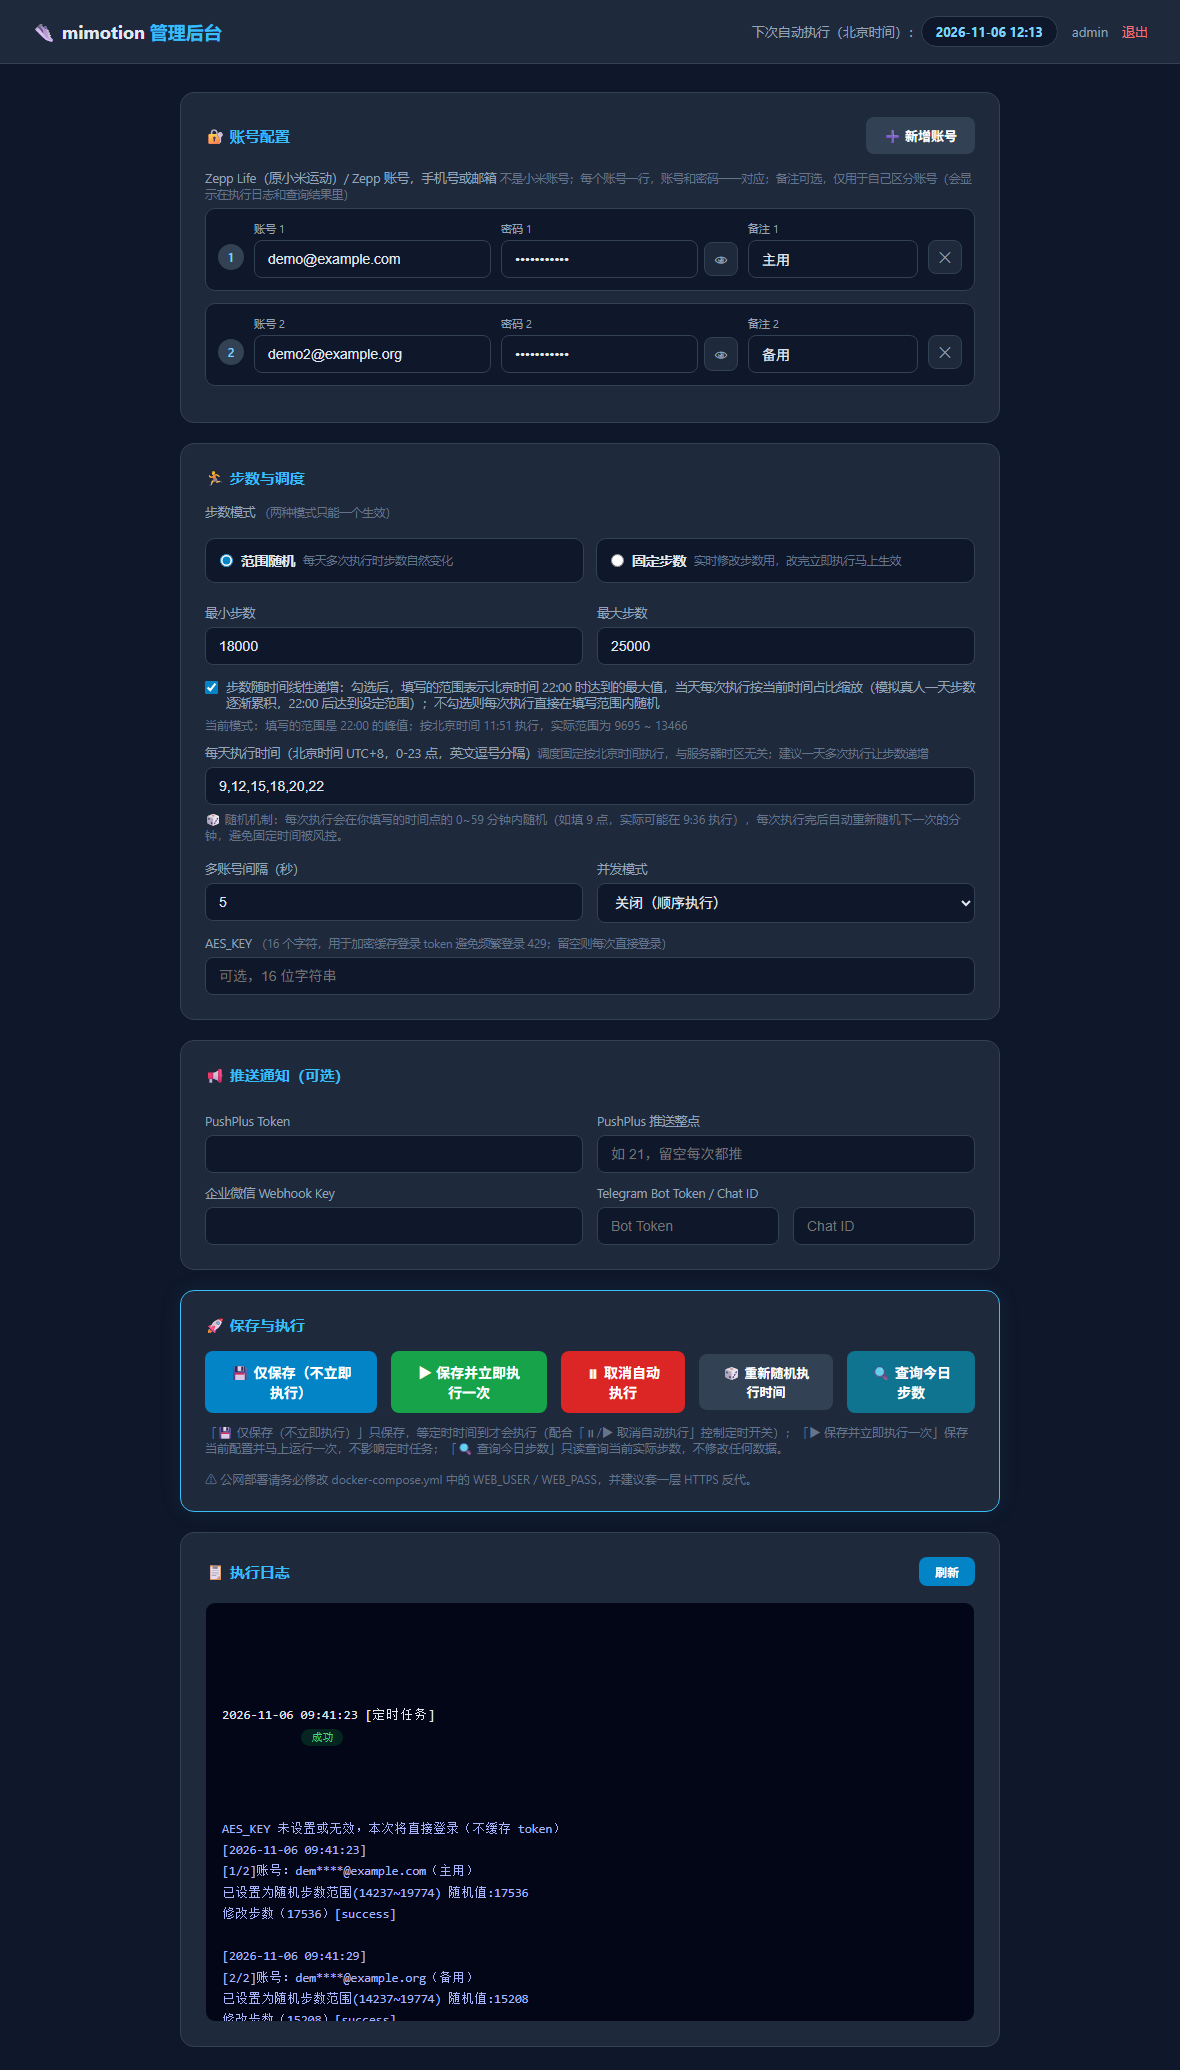
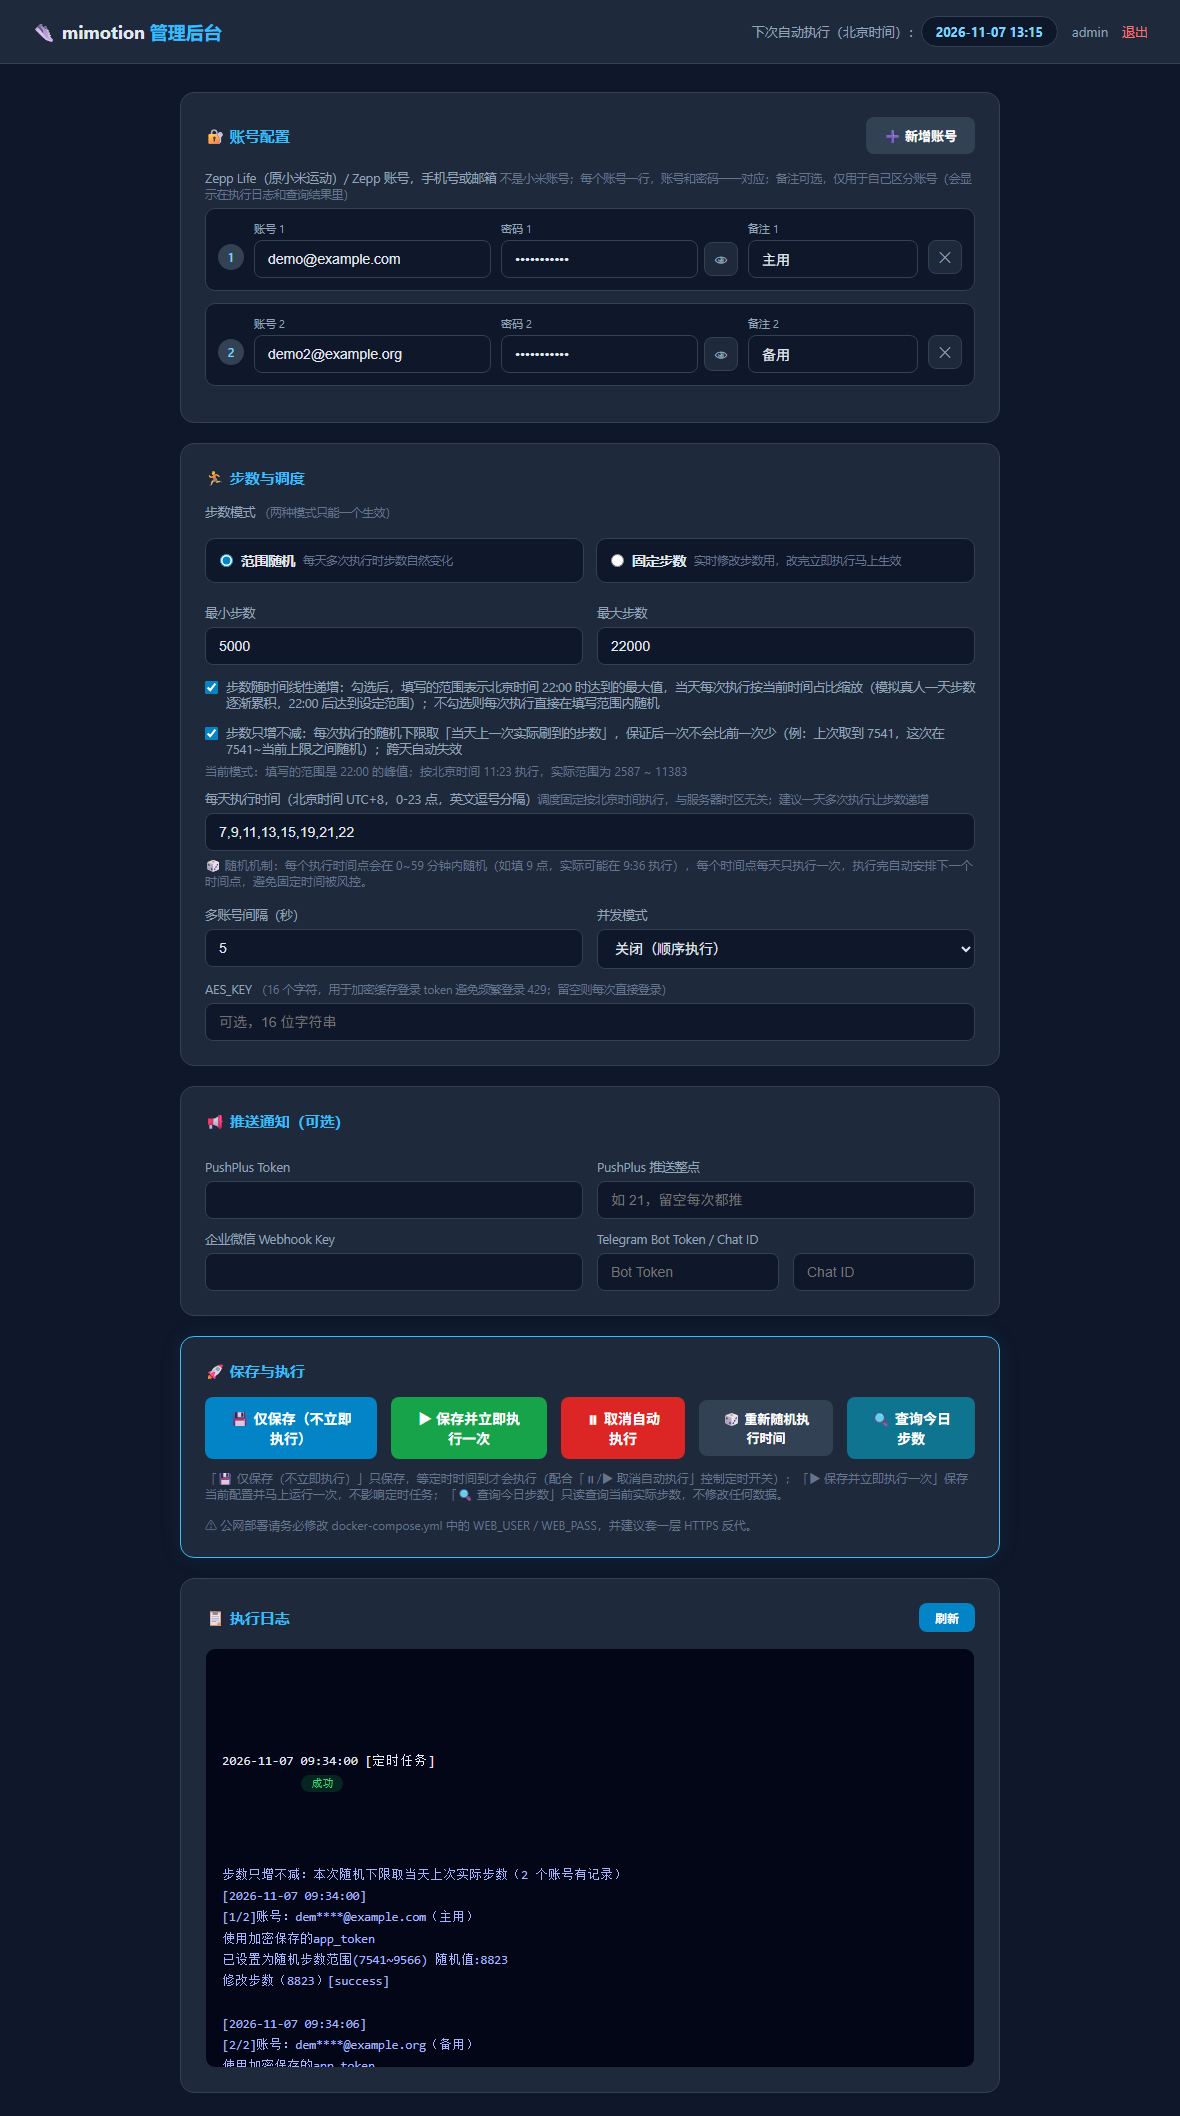
新增步数只增不减、修复同一小时重复执行

diff --git a/templates/dashboard.html b/templates/dashboard.html
@@ -174,6 +174,11 @@
                  {% if cfg.SCALE_BY_TIME != 'False' %}checked{% endif %} onchange="scaleTip()">
           步数随时间线性递增：勾选后，填写的范围表示北京时间 22:00 时达到的最大值，当天每次执行按当前时间占比缩放（模拟真人一天步数逐渐累积，22:00 后达到设定范围）；不勾选则每次执行直接在填写范围内随机
         </label>
+        <label class="check-line">
+          <input type="checkbox" name="MONOTONIC_STEPS" value="True" class="chk"
+                 {% if cfg.MONOTONIC_STEPS != 'False' %}checked{% endif %}>
+          步数只增不减：每次执行的随机下限取「当天上一次实际刷到的步数」，保证后一次不会比前一次少（例：上次取到 7541，这次在 7541~当前上限之间随机）；跨天自动失效
+        </label>
         <div class="muted" id="scale-tip" style="margin:6px 0 0;"></div>
       </div>
 
@@ -184,7 +189,7 @@
       </div>
       <label>每天执行时间（北京时间 UTC+8，0-23 点，英文逗号分隔）<span class="tip" id="hours-tip">调度固定按北京时间执行，与服务器时区无关；建议一天多次执行让步数递增</span></label>
       <input name="HOURS" value="{{ cfg.HOURS }}">
-      <div class="muted" id="random-tip" style="margin:6px 0 0;">🎲 随机机制：每次执行会在你填写的时间点的 0~59 分钟内随机（如填 9 点，实际可能在 9:36 执行），每次执行完后自动重新随机下一次的分钟，避免固定时间被风控。</div>
+      <div class="muted" id="random-tip" style="margin:6px 0 0;">🎲 随机机制：每个执行时间点会在 0~59 分钟内随机（如填 9 点，实际可能在 9:36 执行），每个时间点每天只执行一次，执行完自动安排下一个时间点，避免固定时间被风控。</div>
       <div class="row" style="margin-top:6px;">
         <div>
           <label>多账号间隔（秒）</label>

diff --git a/runner.py b/runner.py
@@ -7,11 +7,12 @@
 import os
 import sys
 import io
+import re
 import json
 import threading
 import contextlib
 import traceback
-from datetime import datetime
+from datetime import datetime, timedelta
 
 BASE_DIR = os.path.dirname(os.path.abspath(__file__))
 CORE_DIR = os.path.join(BASE_DIR, "core")
@@ -21,7 +22,42 @@ if CORE_DIR not in sys.path:
 _run_lock = threading.Lock()
 
 # 把 token 缓存文件固定到 data 目录（main.py 里用的是相对路径）
-os.chdir(os.environ.get("DATA_DIR", os.path.join(BASE_DIR, "data")))
+DATA_DIR = os.environ.get("DATA_DIR", os.path.join(BASE_DIR, "data"))
+os.chdir(DATA_DIR)
+
+# 当天各账号上次实际刷到的步数（跨天自动失效）
+LAST_STEPS_PATH = os.path.join(DATA_DIR, "last_steps.json")
+
+
+def _bj_today() -> str:
+    return (datetime.utcnow() + timedelta(hours=8)).strftime("%Y-%m-%d")
+
+
+def _load_last_steps() -> dict:
+    """返回当天已执行过的 {账号: 步数}；文件不是今天的则视为空。"""
+    try:
+        with open(LAST_STEPS_PATH, encoding="utf-8") as f:
+            data = json.load(f)
+        if data.get("date") == _bj_today():
+            return {k: int(v) for k, v in (data.get("steps") or {}).items()}
+    except Exception:
+        pass
+    return {}
+
+
+def _save_last_steps(steps: dict):
+    try:
+        with open(LAST_STEPS_PATH, "w", encoding="utf-8") as f:
+            json.dump({"date": _bj_today(), "steps": steps},
+                      f, ensure_ascii=False, indent=2)
+    except Exception:
+        print("保存当天步数记录失败：", traceback.format_exc())
+
+
+def _parse_step(msg: str):
+    """从执行结果 '修改步数（12345）[success]' 中解析步数"""
+    m = re.search(r"修改步数（(\d+)）", msg or "")
+    return int(m.group(1)) if m else None
 
 
 def _int(v, default):
@@ -120,6 +156,16 @@ def run_once(cfg: dict, trigger: str = "manual") -> dict:
                     m.max_step = _int(cfg.get("MAX_STEP"), 25000)
                 m.use_concurrent = config.get("USE_CONCURRENT") == "True"
 
+                # 步数只增不减：把当天各账号上次实际刷到的步数作为本次随机下限
+                monotonic = cfg.get("MONOTONIC_STEPS", "True") == "True"
+                last_steps = _load_last_steps() if monotonic else {}
+                if monotonic and cfg.get("STEP_MODE") != "fixed" and last_steps:
+                    m.step_floor = last_steps
+                    print(f"步数只增不减：本次随机下限取当天上次实际步数"
+                          f"（{len(last_steps)} 个账号有记录）")
+                else:
+                    m.step_floor = {}
+
                 if not m.users.strip() or not m.passwords.strip():
                     summary = "账号或密码未填写，跳过执行"
                 else:
@@ -145,6 +191,14 @@ def run_once(cfg: dict, trigger: str = "manual") -> dict:
                                     _t.sleep(m.sleep_seconds)
                         if m.encrypt_support:
                             m.persist_user_tokens()
+                        # 记录本次实际步数，作为当天后续执行的下限
+                        if monotonic and cfg.get("STEP_MODE") != "fixed":
+                            for r in results:
+                                n = _parse_step(r.get("msg")) if r.get("success") else None
+                                if n:
+                                    last_steps[r["user"]] = n
+                            if last_steps:
+                                _save_last_steps(last_steps)
                         ok_count = sum(1 for r in results if r["success"])
                         summary = f"执行账号总数{total}，成功：{ok_count}，失败：{total - ok_count}"
                         success = ok_count == total and total > 0

diff --git a/app.py b/app.py
@@ -6,8 +6,11 @@ import time
 import random
 import secrets
 import threading
+from datetime import timedelta
 from functools import wraps
 from datetime import datetime
+
+import pytz
 
 from flask import (Flask, session, redirect, url_for, request,
                    render_template, flash, jsonify)
@@ -32,6 +35,7 @@ DEFAULT_CONFIG = {
     "MIN_STEP": "18000",
     "MAX_STEP": "25000",
     "SCALE_BY_TIME": "True",
+    "MONOTONIC_STEPS": "True",
     "STEP_MODE": "range",
     "FIXED_STEP": "",
     "SCHEDULE_ENABLED": "True",
@@ -208,6 +212,7 @@ def save():
         cfg[k] = request.form.get(k, DEFAULT_CONFIG[k]).strip()
     # 复选框：未勾选时表单不会提交该字段
     cfg["SCALE_BY_TIME"] = "True" if request.form.get("SCALE_BY_TIME") == "True" else "False"
+    cfg["MONOTONIC_STEPS"] = "True" if request.form.get("MONOTONIC_STEPS") == "True" else "False"
     # 步数模式：range=范围随机 / fixed=固定步数（互斥）
     cfg["STEP_MODE"] = "fixed" if request.form.get("STEP_MODE") == "fixed" else "range"
     cfg["FIXED_STEP"] = request.form.get("FIXED_STEP", "").strip()
@@ -260,6 +265,10 @@ def _next_run_ts():
     if job and job.next_run_time:
         return job.next_run_time.timestamp()
     return None
+
+
+def _now_bj():
+    return datetime.now(pytz.timezone("Asia/Shanghai"))
 
 
 @app.route("/run", methods=["POST"])
@@ -364,11 +373,15 @@ def scheduled_run():
                        "summary": result.get("summary", ""),
                        "trigger": "定时任务",
                        "finished_ts": time.time()})
-    # 执行完后重新随机分钟，避免固定时间被平台风控
-    reschedule()
+    # 执行完后安排下一个时间点（跳过刚执行的小时，避免同小时重复执行）
+    reschedule(skip_hour=_now_bj().hour)
 
 
-def reschedule():
+def reschedule(skip_hour=None):
+    """排下一次定时执行。
+    skip_hour：定时任务执行完后调用时传入刚执行的小时（北京时间），
+    确保该小时不会因随机分钟落在其后而被再次排程（每个时间点每天只执行一次）。
+    """
     cfg = load_config()
     # 定时被取消时不排程
     if cfg.get("SCHEDULE_ENABLED", "True") != "True":
@@ -379,12 +392,25 @@ def reschedule():
     for h in cfg.get("HOURS", "").split(","):
         h = h.strip()
         if h and h.isdigit() and 0 <= int(h) <= 23:
-            hours.append(h)
+            hours.append(int(h))
     if not hours:
         return
-    minute = random.randint(0, 59)
-    scheduler.add_job(scheduled_run, "cron",
-                      hour=",".join(hours), minute=str(minute),
+    now = _now_bj()
+    run_at = None
+    for h in sorted(set(hours)):
+        if skip_hour is not None and h == skip_hour:
+            continue  # 该时间点刚执行过，不再重复
+        cand = now.replace(hour=h, minute=random.randint(0, 59),
+                           second=0, microsecond=0)
+        if cand > now:
+            run_at = cand
+            break
+    if run_at is None:
+        # 今天的时间点都已过（或刚执行完最后一个）：安排到明天最早的时间点
+        first = min(h for h in hours if h != skip_hour) if len(set(hours)) > 1 else min(hours)
+        run_at = (now + timedelta(days=1)).replace(
+            hour=first, minute=random.randint(0, 59), second=0, microsecond=0)
+    scheduler.add_job(scheduled_run, "date", run_date=run_at,
                       id="mimotion", replace_existing=True)
 
 

diff --git a/core/main.py b/core/main.py
@@ -87,6 +87,10 @@ def get_error_code(location):
     return result[0]
 
 
+# 当日步数下限（由 Web 端注入 {账号: 当天上次实际步数}），用于「步数只增不减」
+step_floor = {}
+
+
 class MiMotionRunner:
     def __init__(self, _user, _passwd):
         self.user_id = None
@@ -199,6 +203,16 @@ class MiMotionRunner:
         app_token = self.login()
         if app_token is None:
             return "登陆失败！", False
+
+        # 步数只增不减：下限取当天上次实际刷到的步数（Web 端注入 step_floor）
+        floor = (step_floor or {}).get(self.user)
+        if floor:
+            try:
+                floor = int(floor)
+                min_step = max(min_step, floor)
+                max_step = max(max_step, floor)
+            except (TypeError, ValueError):
+                pass
 
         step = str(random.randint(min_step, max_step))
         self.log_str += f"已设置为随机步数范围({min_step}~{max_step}) 随机值:{step}\n"

diff --git a/README.md b/README.md
@@ -13,9 +13,9 @@
 - **Web 管理界面**：账号密码登录（带 CSRF 防护 + 登录失败锁定），适合公网部署
 - **账号动态管理**：「新增账号」逐行添加账号 / 备注 / 密码（密码支持明文切换查看、单行删除），多账号自动用 `#` 分隔传给核心逻辑，无需手动拼接；备注可选，会显示在执行日志和查询结果里（如 `demo****@example.com（主用）`），方便区分多个账号
 - **步数模式（二选一）**：
-  - 🏃 **范围随机**：在最小/最大步数间随机；可选「随时间线性递增」——填写的范围为北京时间 22:00 达到的峰值，更早执行按当前时间占比缩放（模拟真人一天步数逐渐累积）
+  - 🏃 **范围随机**：在最小/最大步数间随机；可选「随时间线性递增」——填写的范围为北京时间 22:00 达到的峰值，更早执行按当前时间占比缩放（模拟真人一天步数逐渐累积）；可选「步数只增不减」——每次执行的随机下限取当天上一次实际刷到的步数，保证后一次不会比前一次少（跨天自动失效）
   - 🎯 **固定步数**：每次执行都设为确切值，适合实时把步数改成某个目标值（此模式下每天执行时间只能填一个时间点）
-- **定时调度**：按北京时间执行，与服务器时区无关；每个时间点在 0~59 分钟内随机执行，执行完自动重新随机，避免固定时间被风控
+- **定时调度**：按北京时间执行，与服务器时区无关；每个时间点在 0~59 分钟内随机执行，每个时间点每天只执行一次，执行完自动安排下一个时间点，避免固定时间被风控
 - **执行控制**：仅保存（等定时执行）/ 保存并立即执行一次 / 取消自动执行 / 重新随机执行时间，状态持久化，重启不丢
 - **执行日志**：网页内查看最近 50 次执行记录（成功/失败、随机步数、接口返回）
 - **步数查询**：一键查询各账号当日实际步数（只读操作，不改数据），结果直接显示在页面
@@ -116,6 +116,7 @@ docker compose up -d --build
 | --- | --- |
 | 账号 / 密码 | Zepp Life（原小米运动）/ Zepp 账号，**不是小米账号**；手机号或邮箱；支持多账号，逐行添加 |
 | 最小/最大步数 | 范围随机模式下使用；勾选「随时间线性递增」时代表 22:00 的峰值 |
+| 步数只增不减 | 勾选后每次执行的随机下限取当天上次实际刷到的步数（记录在 `data/last_steps.json`，跨天自动失效），避免后一次比前一次少 |
 | 固定步数 | 固定步数模式下使用，每次执行设为该值 |
 | 每天执行时间 | 北京时间 0-23 点，逗号分隔（如 `9,12,15,18,20,22`）；固定步数模式只能填一个 |
 | AES_KEY | 可选，16 个字符；配置后加密缓存登录 token，避免频繁登录 429 |
